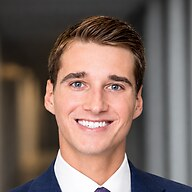
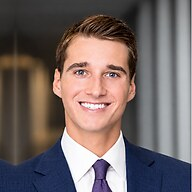
Frame founder photo like the approved email signature
Claude-Session: https://claude.ai/code/session_01PqypBjMi1UyX8TYwUtHGTE

diff --git a/brand/index.html b/brand/index.html
@@ -249,7 +249,7 @@
   <div class="wrap">
     <div class="sec-head"><h2>Change log</h2><p>Every brand decision, newest first.</p></div>
     <ul class="log">
-      <li><b>Oct 5, 2026</b>: New founder photo (smiling, navy suit, purple tie) is now the only approved photo of Ryan, on the website and in the email signature. Cropped at head and collar so the suit shoulders stay out of frame.</li>
+      <li><b>Oct 5, 2026</b>: New founder photo (smiling, navy suit, purple tie) is now the only approved photo of Ryan, on the website and in the email signature. Framed like the email signature: head and shoulders, centred on his face.</li>
       <li><b>Oct 5, 2026</b>: Founder photo on Who we are now matches the email signature: round, with a Neon ring.</li>
       <li><b>Oct 5, 2026</b>: Hero staircase, dotted line and square removed for good. Neon brought back in small doses: the hero arrow, the bar above the hero headline, the bars above titles on Ink sections and the "After" label. Wordmark "Chairlift" lightened to SemiBold (600).</li>
       <li><b>Oct 5, 2026</b>: Website Neon limited to the logo's top step only (no Neon text, highlights, underlines, arrows or check marks). Headline arrow is now a sharp Night Ink ↗. Wordmark "Chairlift" in Hanken Grotesk Bold, never all caps. Homepage hero gets a soft grey staircase in the top-right corner. Homepage problem/fix cards: first white, others lighter Ink. "On" in Onboard set in light italic.</li>

diff --git a/CLAUDE.md b/CLAUDE.md
@@ -22,7 +22,7 @@ Static site for Chairlift, hosted on Netlify. Every push to `main` publishes the
 - Colour names: **Midnight Ink** `#141B2A` ("Ink") and **Chairlift Neon** `#3DFFC1` ("Neon"). On the website, Neon is used only for: the logo's top step, the hero arrow after "Make the climb easier", the short bar above the hero headline, the short bars above titles on Ink sections, the "After" label on Ink, and the ring around the round founder photo on Who we are (matches the email signature). Nothing else: no Neon text, highlights, underlines, check marks or buttons. Use Ink on light backgrounds, white on Ink. "Where we usually start." never gets a highlight or underline.
 - Layout: straight section edges, white cards on Ink sections, two Ink sections never touch. NEVER any staircase graphic, dotted line or square decoration outside the logo (Ryan: "never want to see that again"). Exception: the homepage "What we take off your team's plate" cards (first white, others lighter Ink).
 - Wordmark `Chairlift` (capital C, Hanken Grotesk SemiBold 600), never all caps. Headings display in capitals; body copy stays sentence case.
-- Founder photo: only ever use the smiling headshot (navy suit, purple tie) in `images/ryan-peddigrew.jpg` (website) and `images/email-headshot.jpg` (signature). Crop it at head and collar so the suit shoulders stay out of frame. Never use any other photo of Ryan.
+- Founder photo: only ever use the smiling headshot (navy suit, purple tie) in `images/ryan-peddigrew.jpg` (website) and `images/email-headshot.jpg` (signature). Framed like the approved email signature: head and shoulders, centred on his face, in a round frame with a Neon ring. Never use any other photo of Ryan.
 - Never say "one point of contact" (or similar) anywhere on the site. Ryan dropped it.
 - Footer links stay short: no "Who we help" (it lives in the main menu only).
 - Never use "free call", "20-minute", "Sit back", "relax" or "cost/costs" in marketing copy. Buttons read "Start a conversation".
